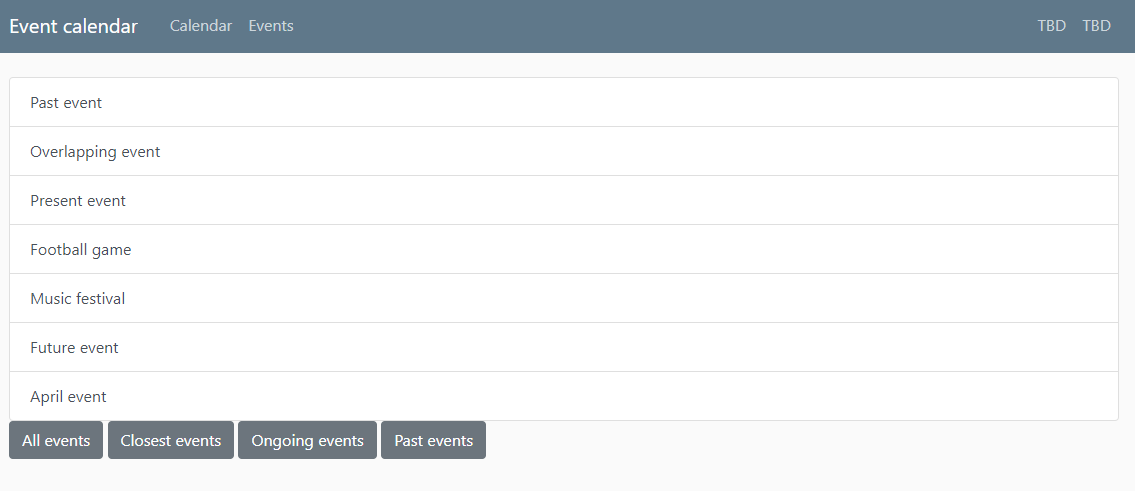
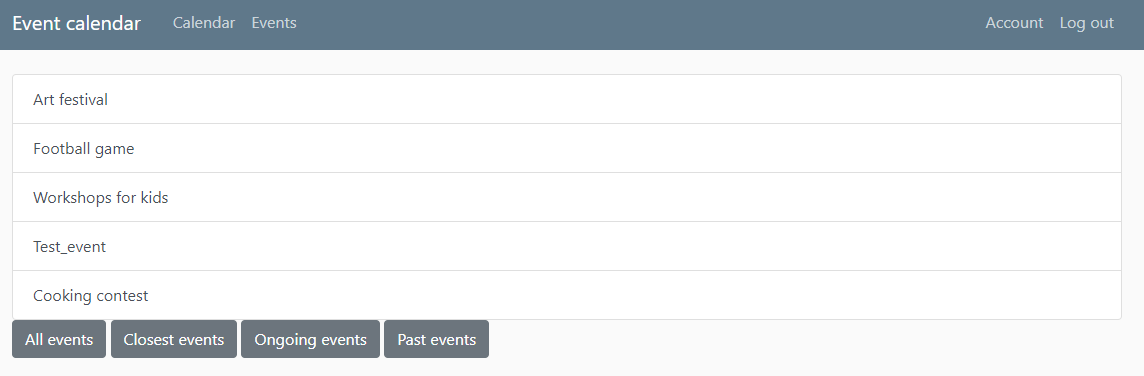
Account template and readme update.

diff --git a/event_calendar/users/templates/users/account.html b/event_calendar/users/templates/users/account.html
@@ -8,6 +8,11 @@
             <p class="text-secondary">{{ user.email }}</p>
         </div>
     </div>
+
+    <legend class="mb-4">Create new event: <a class="btn btn-primary" href="{% url 'events:Create' %}"
+            role="button">Create</a></legend>
+
+
     <form method="POST">
         {% csrf_token %}
         <fieldset class="form-group">

diff --git a/README.md b/README.md
@@ -1,6 +1,18 @@
 # Event calendar
 > Application that allows to view and manage cultural events.
 
+## General info
+This version includes among others:
+* An admin site for managing database.
+* User authentication.
+* Viewing and managing cultural events.
+* Creating new events.
+
+## Technologies
+* python 3.8.0
+	* Django 3.0.4
+* Bootstrap 4
+
 ## Screenshots
 Calendar page:
 
@@ -8,21 +20,15 @@ Calendar page:
 
 Event list page:
 
-![calendar](/img/events.PNG)
+![events](/img/events.PNG)
 
 Detail page:
 
-![calendar](/img/detail.PNG)
+![detail](/img/detail.PNG)
 
-## General info
-This version includes:
-* An admin site for managing database.
-* Viewing and managing cultural events.
+Detail page:
 
-## Technologies
-* python 3.8.0
-	* Django 3.0.4
-* Bootstrap 4
+![account](/img/account.PNG)
 
 ## TODO
 List of TODOs for future development
